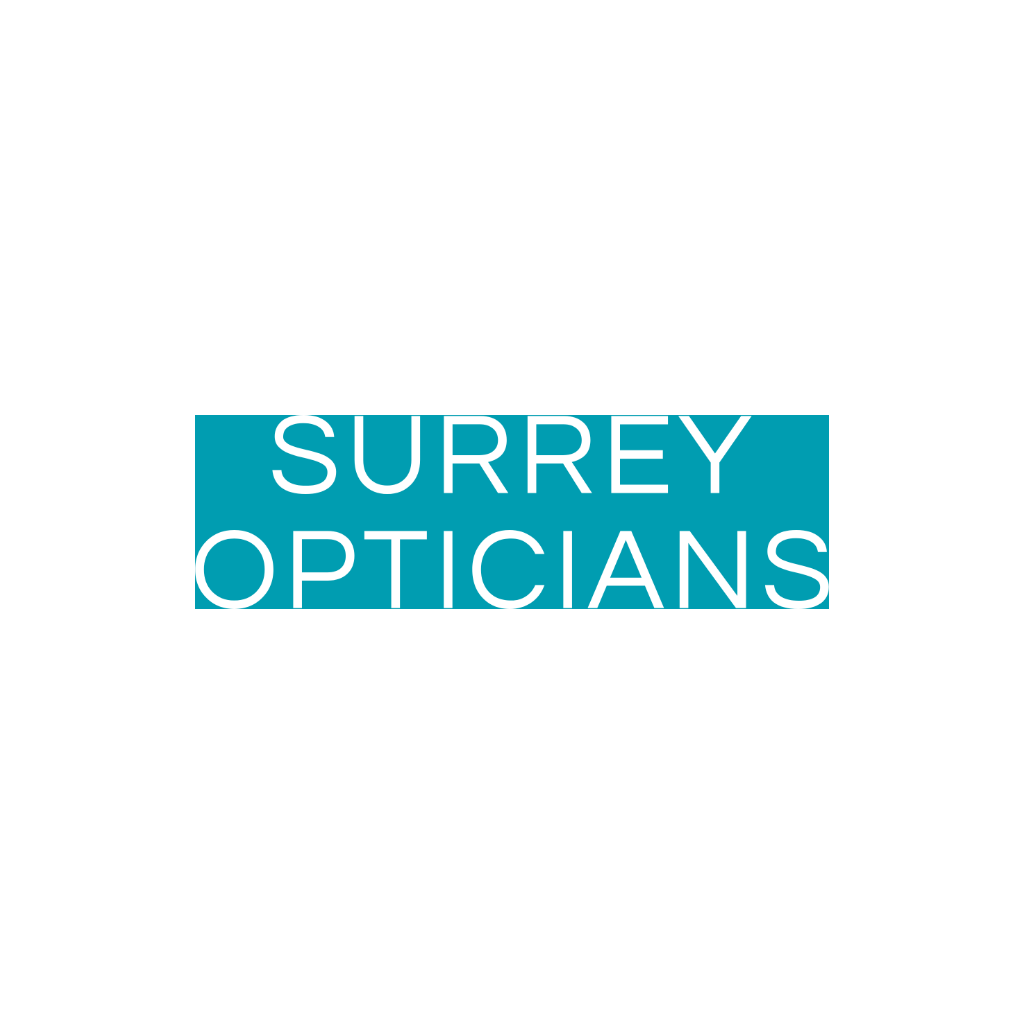
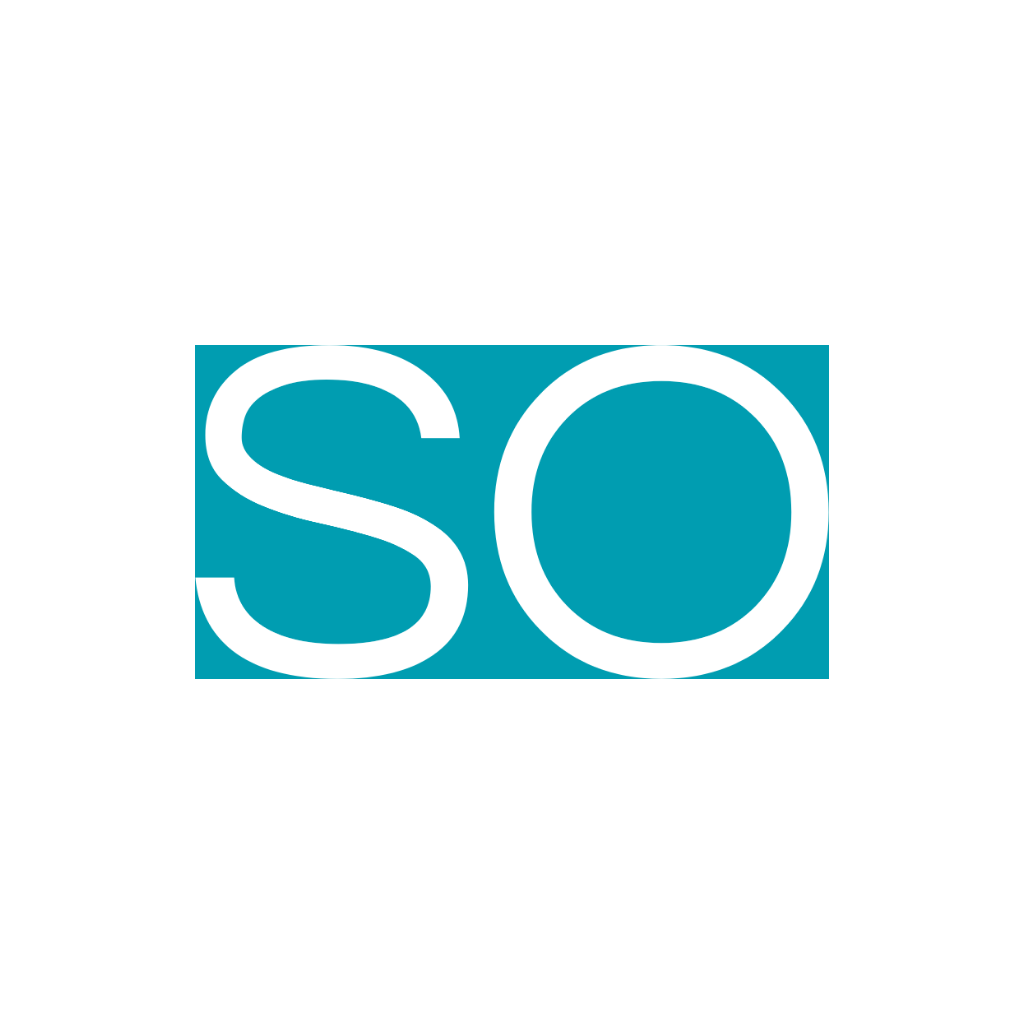
Add an SO device, set from the practice's own letters
The square icons wanted a device: the stacked lockup squeezed into a 1024
square reads as a stripe across an empty tile. Their own SO device is a placed
image in the brand book rather than vector in the page, and this container can
reach GitHub and nothing else, so the file itself is still out of reach.

assets/logo-device.svg is their S and their O — the same Gill Sans Nova
outlines the wordmark is drawn from — set plainly side by side on the brand
turquoise. The letterforms are exactly theirs; only the setting is not, and the
file says so at the top rather than passing itself off as their artwork.

install-logo.mjs now takes --device: artwork for the store icon, adaptive icon
and favicon, separate from the lockup that fills the in-app logo, splash and
wallet passes. So when their real device does arrive, it goes in on its own
without disturbing the wordmark.

Claude-Session: https://claude.ai/code/session_01W1dHDt2otNd4cieKB5fn5R

Changed region(s): [[0.1875, 0.3125, 0.8125, 0.6875]]

diff --git a/README.md b/README.md
@@ -186,20 +186,32 @@ places:
 | File | What it is |
 |---|---|
 | `frontend/src/ui/wordmarkPath.ts` | The wordmark on one line, drawn by `Wordmark.tsx` on the membership card, the lock screen and the join page |
-| `frontend/assets/logo-mark.svg` | The stacked lockup, white on the brand turquoise — the source every PNG is rendered from |
+| `frontend/assets/logo-mark.svg` | The stacked lockup, white on the brand turquoise — the source for the in-app logo, splash and wallet passes |
+| `frontend/assets/logo-device.svg` | The SO device: the same two letters set as a monogram, for the square icons |
 
 Because the outlines are drawn rather than set, the app needs no licensed font
 file for the wordmark, and it is exactly theirs at every size.
 
-What is **not** here is the practice's **SO device** — the monogram tile. It is a
-placed image inside the brand book rather than vector artwork in the page, so it
-could not be lifted the same way. Earlier versions of this app carried a hand
-trace of it; that has been removed rather than shipped as if it were the real
-thing. To put the device back, run their artwork through one command:
+The **SO device** is the one part that is not lifted from their artwork. Their
+own device is a placed image inside the brand book rather than vector in the
+page, so it could not come across with the type. `logo-device.svg` stands in for
+it: their S and their O, in their typeface, set plainly side by side. Near, but
+not a copy of the device itself — and not a hand trace of it either, which is
+what earlier versions of this app shipped.
+
+To put their real device in, pass it to the same script:
 
 ```bash
 cd frontend
 npm i -D playwright-core                       # once
+node scripts/install-logo.mjs assets/logo-mark.svg --device "Surrey Opticians Logo-01.png"
+```
+
+`--device` is for artwork that belongs only on the square icons; a full lockup
+given as the main file fills everything else. Passing one file and no `--device`
+uses it for all of them:
+
+```bash
 node scripts/install-logo.mjs "Surrey Opticians Logo-01.png"
 ```
 
